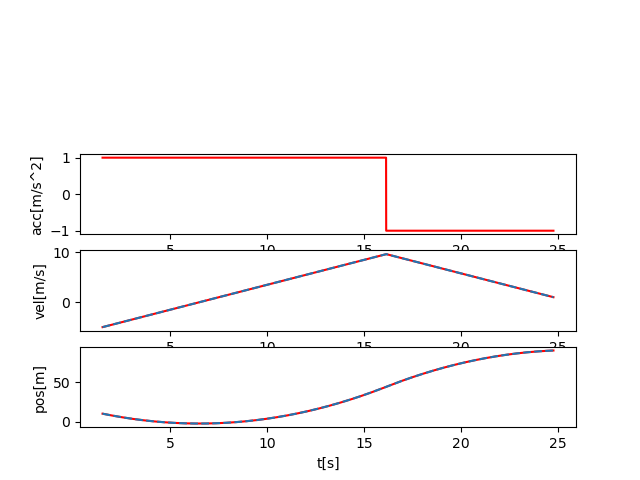
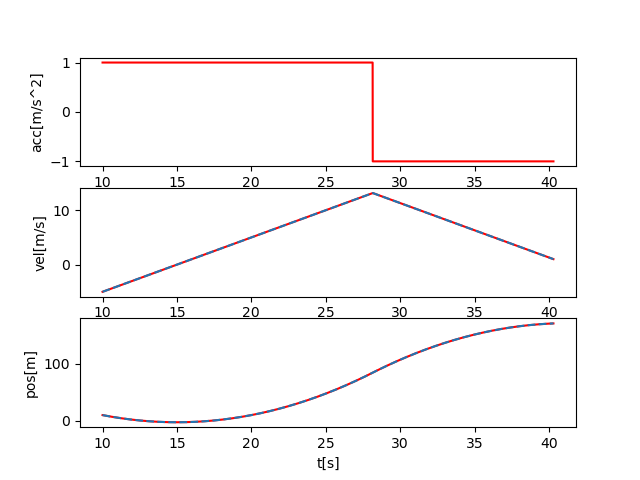
update example and readme

diff --git a/two_point_interpolation_test_constant_acc.py b/two_point_interpolation_test_constant_acc.py
@@ -4,15 +4,15 @@ import two_point_interpolation_constant_acc as tpi
 
 # constraints
 p0 = 10
-pe = 90.0
+pe = 170.0
 
 v0 = -5
 ve = 1
 
 amax = 1
-vmax = 10
+vmax = 100
 
-t0 = 1.5
+t0 = 10
 
 # sim condition
 dt = 0.001
@@ -33,16 +33,16 @@ i = 0
 for j in range(0,tref.size):
 	pos[j][i], vel[j][i], acc[j][i]	= interp.get_point(tref[j])
 
-plt.subplot(4,1,2)
+plt.subplot(3,1,1)
 plt.plot(tref,acc[:,0],'r')
 plt.ylabel('acc[m/s^2]')
 
-plt.subplot(4,1,3)
+plt.subplot(3,1,2)
 plt.plot(tref,vel[:,0],'r')
 plt.plot(tref,np.cumsum(acc[:,0])*dt+v0,"--")
 plt.ylabel('vel[m/s]')
 
-plt.subplot(4,1,4)
+plt.subplot(3,1,3)
 plt.plot(tref,pos[:,0],'r')
 plt.plot(tref,np.cumsum(vel[:,0])*dt+p0,"--")
 plt.ylabel('pos[m]')

diff --git a/README.md b/README.md
@@ -9,10 +9,20 @@ Calculate trajectory(pose, velocity, accerelation) between two points with const
 
 ## Example result
 ### Constant ACC
-case 0: not reach velocity limit
+#### case 0: not reach velocity limit
+constraints: 
+- p0 = 10, pe = 170.0
+- v0 = -5, ve = 1
+- amax = 1, vmax = 100
+- t0 = 10
 
 ![alt text](images/acc_constant_0.png)
 
-case 1: reach velocity limit
+#### case 1: reach velocity limit
+constraints: 
+- p0 = 50, pe = -90.0
+- v0 = -5, ve = 1
+- amax = 1, vmax = 10
+- t0 = 0
 
 ![alt text](images/acc_constant_1.png)
